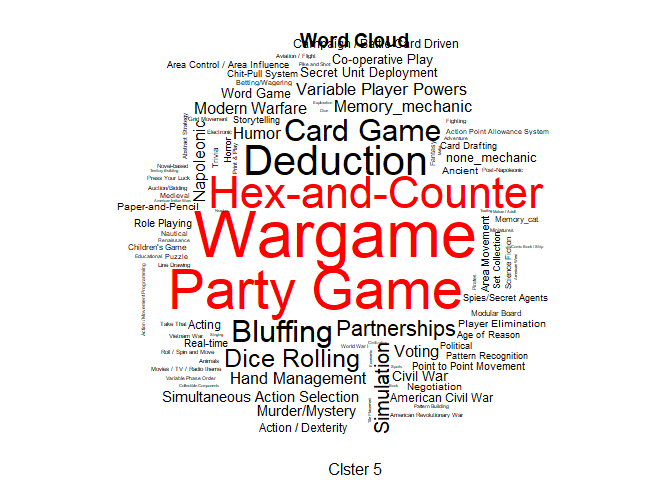
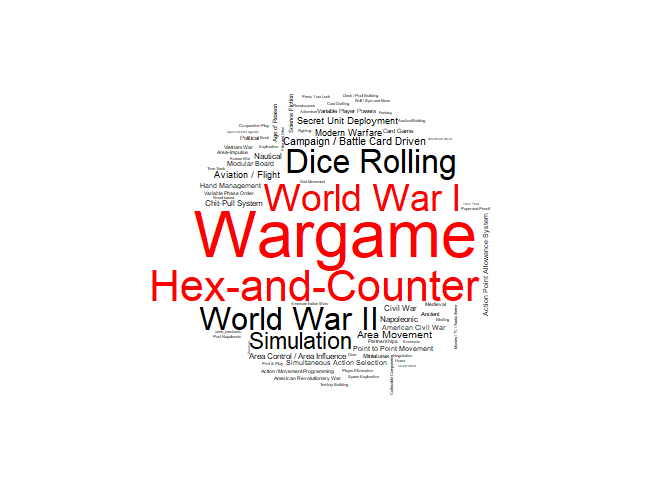
update README

Changed region(s): [[0.1562, 0.0625, 0.8125, 0.9062], [0.4688, 0.9688, 0.5625, 1.0]]

diff --git a/README.md b/README.md
@@ -14,7 +14,7 @@ Hence, we grabbed the data from BGG, and tried to build a board game reference s
 
 Several fantastic algorithms have been invented and widely used in building a recommendation system in the past few years. The choice of algorithms highly depends on the data used for the system. Since the data we have contains only information of boardgame, we choose [item-based collaborative filtering](https://en.wikipedia.org/wiki/Item-item_collaborative_filtering) method. In this method, recommendation is made by the similarity of items among each others, that is, how similar they are according to their features.
 
-Dataset is obtained from [Kaggle](https://www.kaggle.com/mrpantherson/board-game-data#bgg_db_2018_01.csv). This dataset contains many interesting features of about 5,000 boardgames. These feature includes:
+This project is done in R with the following packages:
 
 ``` r
 library(tidyverse)
@@ -23,6 +23,8 @@ library(wordcloud2)
 library(wordcloud)
 boardgame <- read_csv("~/bgg_db_2018_01.csv")
 ```
+
+Dataset is obtained from [Kaggle](https://www.kaggle.com/mrpantherson/board-game-data#bgg_db_2018_01.csv). This dataset contains many interesting features of about 5,000 boardgames. These feature includes:
 
 ``` r
 colnames(boardgame)
@@ -79,12 +81,14 @@ colnames(boardgame_cluster)[1:20]
 
 #### 2.2 Clustering
 
-Since there are about 5,000 boardgames in the dataset, it will be computationally expensive to calculate simliarities for all possible pair-wise combinations. Hence, we cluster the boardgames and then calculate the similarity among each cluster.
+Since there are about 5,000 boardgames in the dataset, it will be computationally expensive to calculate simliarities for all possible pair-wise combinations. Hence, we cluster the boardgames into few groups, and the similarities will be calculated within the groups.
+
+[K-means](https://en.wikipedia.org/wiki/K-means_clustering) is one of the most popular and intuitive clustering method. This method aims at finding k clusters such that the within-cluster sum of squares is minimized. The result of k-means is affected by the initialization of k points. Hence, k-means is performed several times (default 100 times) and the cluster with max count is assigned to each boardgames. Here, we use *k* = 5 as an example:
 
 ``` r
-#=========================================================================
+#=========================================================
 # Clustering (K-means) determined by max mode
-#=========================================================================
+#=========================================================
 n_cluster <- 5
 getmode <- function(v) {
   uniqv <- unique(v)
@@ -103,27 +107,16 @@ cluster_max <- function(dat,n_cluster,num_iter){
 cluster_result <- cluster_max(boardgame_cluster,n_cluster = n_cluster,num_iter = 100)
 ```
 
+Principal component analysis (PCA) is performed to visualize the result of clustering.
+
 ``` r
 #========================================================
 # Visualize clusters
 #========================================================
 # Visualize through PCA
 library(MASS)
-```
-
-    ## 
-    ## Attaching package: 'MASS'
-
-    ## The following object is masked from 'package:dplyr':
-    ## 
-    ##     select
-
-``` r
 library(FactoMineR)
 bgg_pca <- PCA(scale(boardgame_cluster),ncp = 6,graph = FALSE)
-#plot(bgg_pca,choix = "var")
-#plot(bgg_pca$ind$coord)
-#legend(20,20,1:n_cluster,col = 1:n_cluster,pch = 1,pt.lwd = 4)
 
 plot(bgg_pca,axes = c(1,2),habillage = "ind",col.hab = cluster_result,label = "none")
 legend(10,10,1:n_cluster,col = 1:n_cluster,pch = 1,pt.lwd = 4)
@@ -139,16 +132,22 @@ boardgame_cluster_all %>% group_by(cluster) %>% summarise(n=n())
     ## # A tibble: 5 x 2
     ##   cluster     n
     ##     <dbl> <int>
-    ## 1       1  1242
-    ## 2       2   541
-    ## 3       3  1131
-    ## 4       4  1401
-    ## 5       5   684
+    ## 1       1  3220
+    ## 2       2   395
+    ## 3       3   285
+    ## 4       4   348
+    ## 5       5   751
+
+#### 2.3 Similarity
+
+#### 2.4 Recommendation System
+
+### 3. Result
 
 ``` r
-#=========================================================================
+#=========================================================
 # Word Cloud and Frequency Plot
-#=========================================================================
+#=========================================================
 word_freq <- c()
 for(i in 1:n_cluster){
   word_freq <- cbind(word_freq,apply(boardgame_cluster_all[boardgame_cluster_all$cluster==i,-c(1,138)],2,sum))
@@ -166,12 +165,11 @@ while(is.null(t)!=T){
   t <- tryCatch(expr = {wordcloud(words = d$word,freq = d$freq,max.words = 100, scale = c(size,0.2),random.order = F,ordered.colors = T,colors = color,rot.per = 0.1)}, 
                 warning = function(w) w
   )
-  title(main = "Word Cloud",sub = paste("Clster",i))
   size = size*.8
 }
 ```
 
-![](README_files/figure-markdown_github/unnamed-chunk-8-1.png)
+![](README_files/figure-markdown_github/unnamed-chunk-9-1.png)![](README_files/figure-markdown_github/unnamed-chunk-9-2.png)![](README_files/figure-markdown_github/unnamed-chunk-9-3.png)
 
 ``` r
 ggplot(data = d[1:10,],aes(x = reorder(word,-freq),y = freq)) + 
@@ -187,13 +185,7 @@ ggplot(data = d[1:10,],aes(x = reorder(word,-freq),y = freq)) +
   )
 ```
 
-![](README_files/figure-markdown_github/unnamed-chunk-9-1.png)
-
-#### 2.3 Similarity
-
-#### 2.4 Recommendation System
-
-### 3. Result
+![](README_files/figure-markdown_github/unnamed-chunk-10-1.png)
 
 ### 4. Future Work
 
